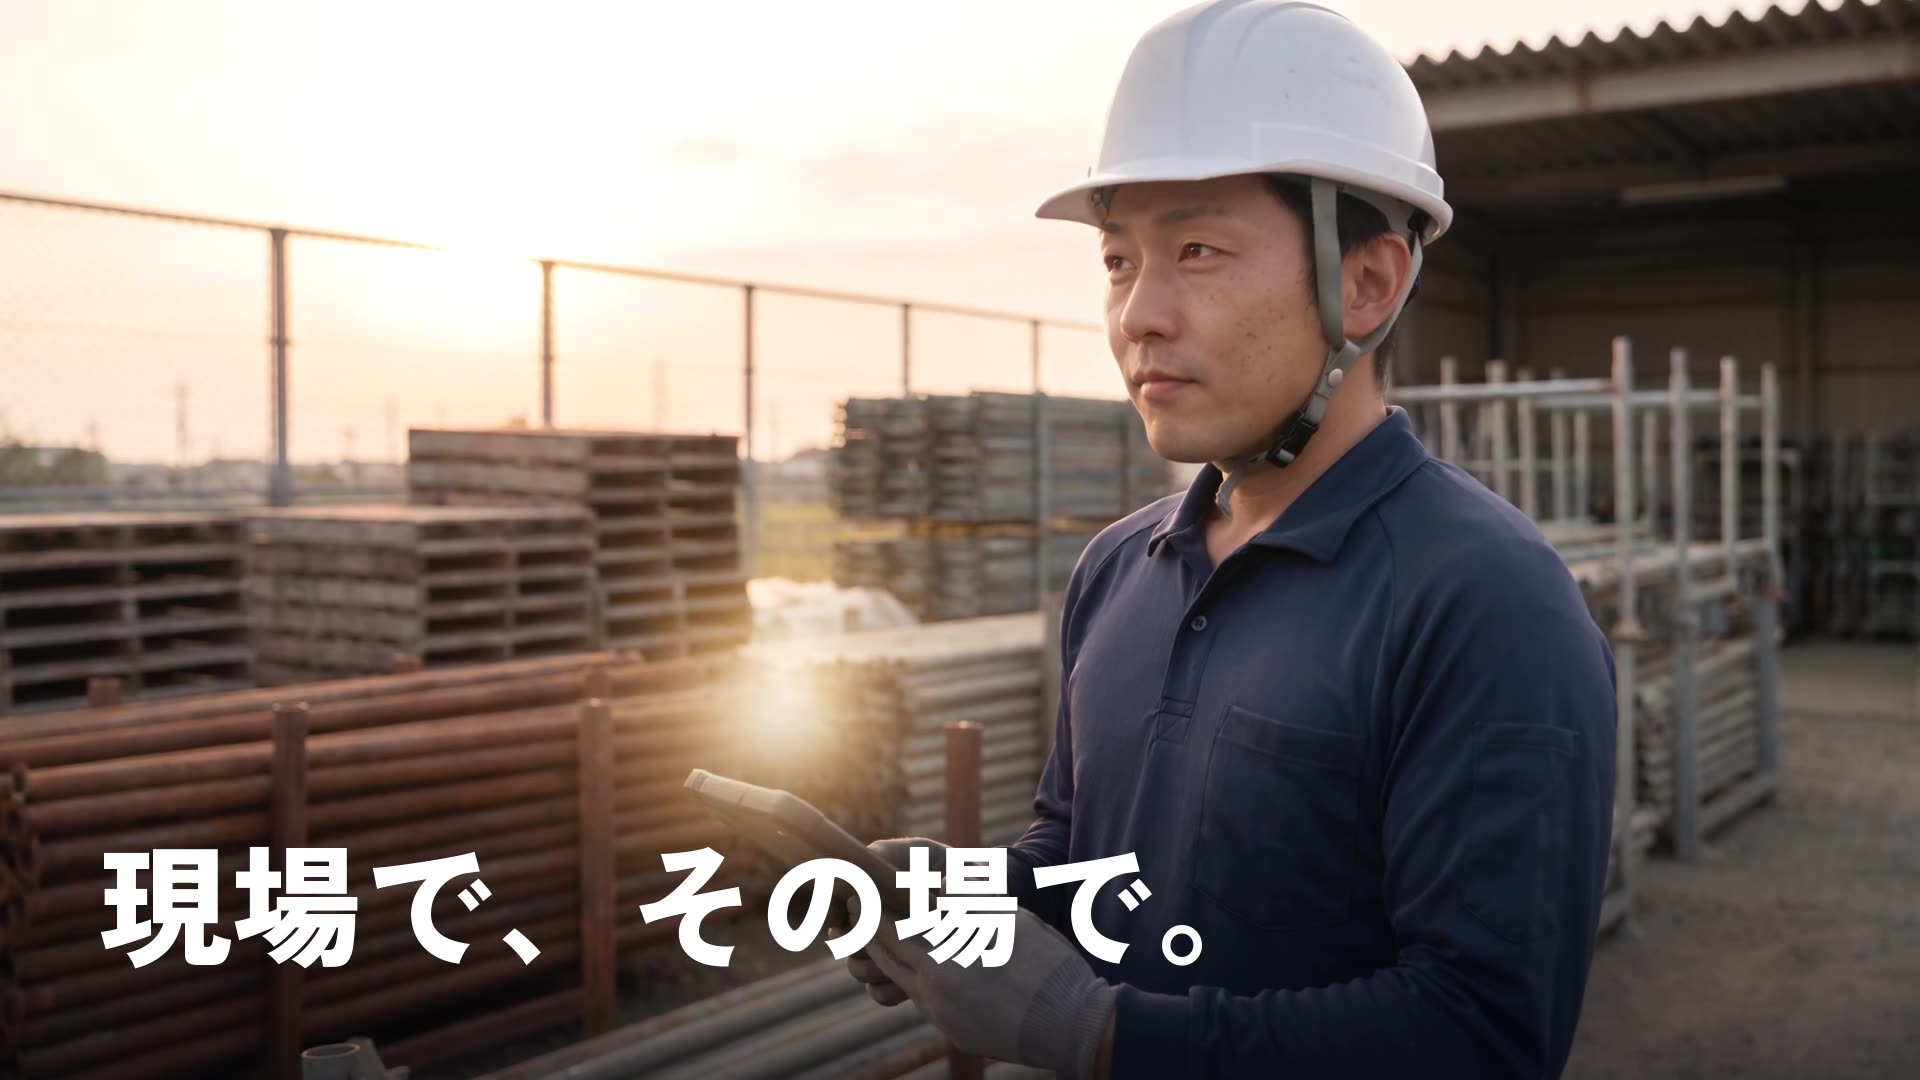
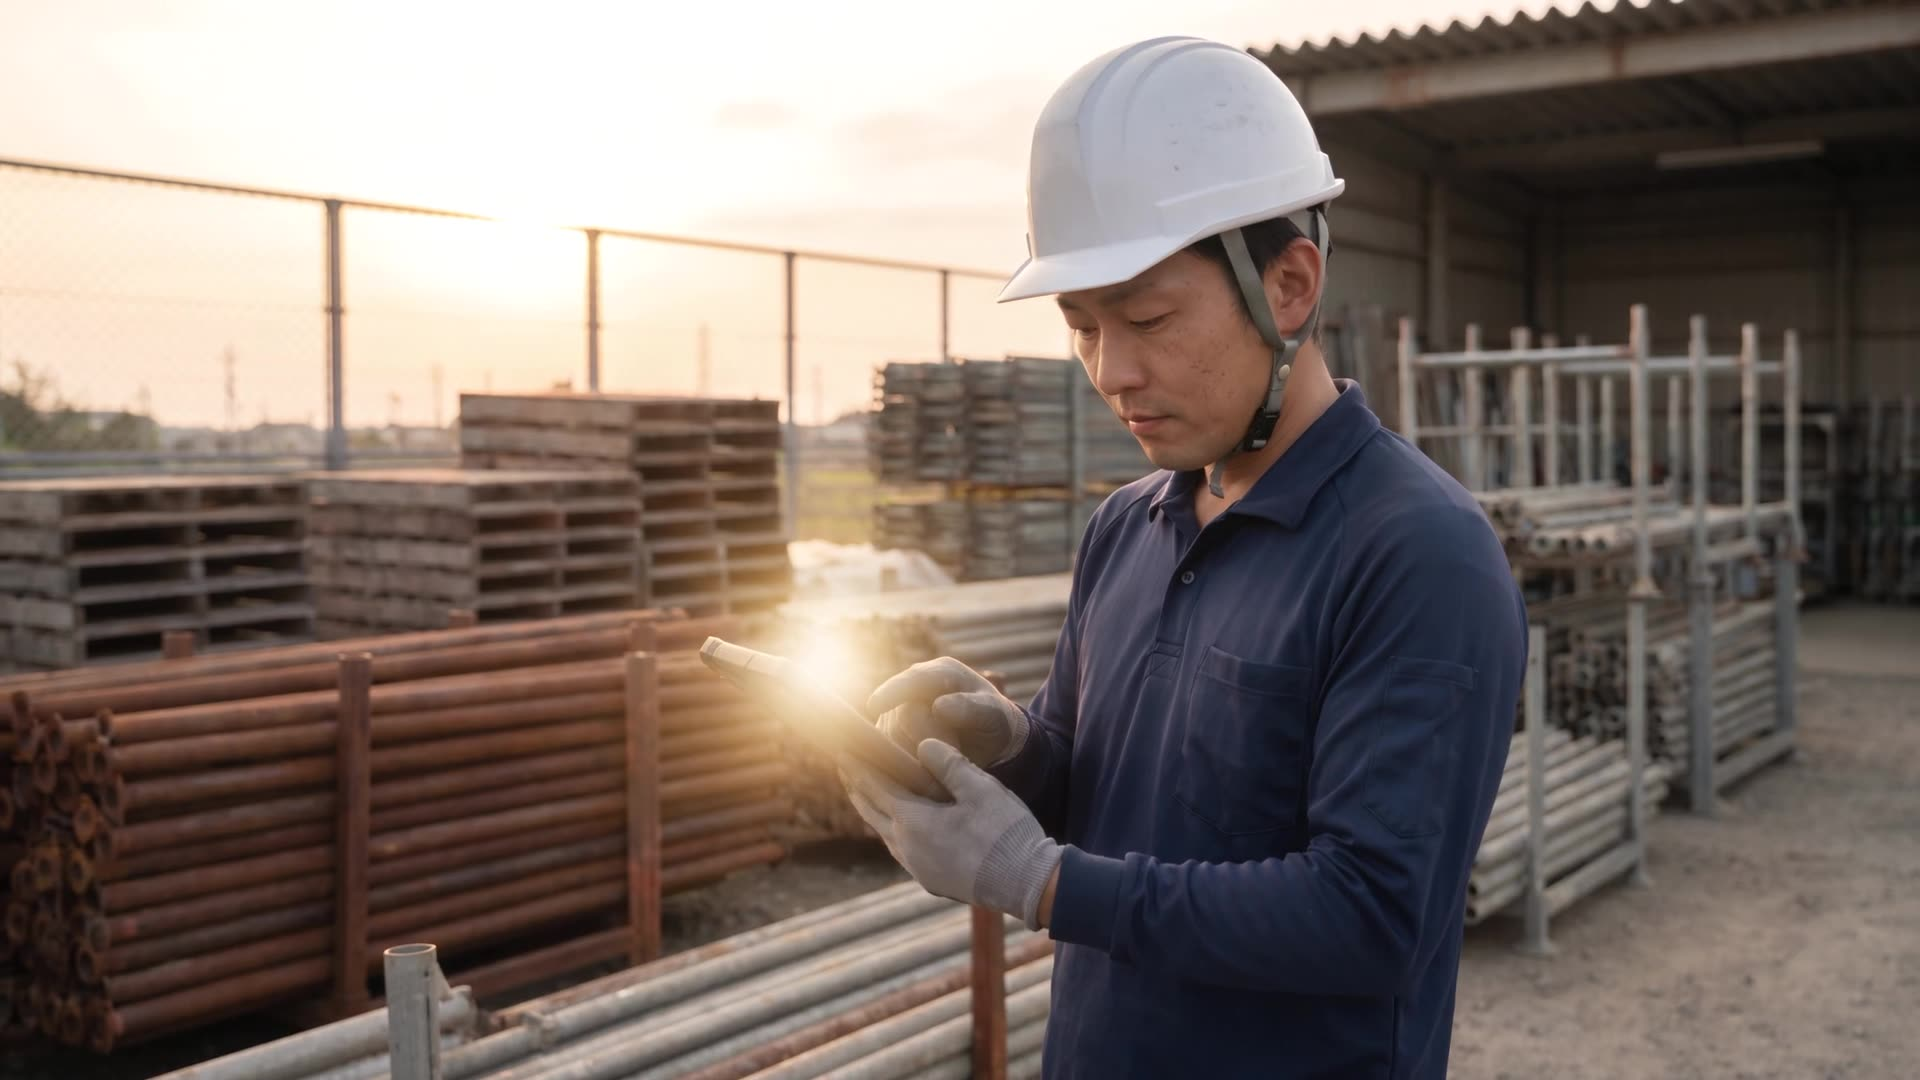
サンプル2本をサイトのジャンルカードに追加、検査も6件足した
構成案の「サイトへの載せ方」どおり index.html の 02 サービス紹介と
04 広告・CM のカードに figure.sample で入れた。

- 形は 06 展示会のカードに合わせた
- 説明文に架空の題材だと明記（e2e が両方検査する）
- ポスターはテロップの出ていないフレームにした。既存2枚もそうで、
  テロップ入りだと再生前のコントロールバーに文字が隠れる
- tests/content.mjs に6件追加。content.mjs 88件→94件、全スイートPASS

Claude-Session: https://claude.ai/code/session_01SPSW4cuRHT1T36D9RaAy9y

diff --git a/index.html b/index.html
@@ -411,6 +411,20 @@
                     <div class="genre-no">02</div>
                     <h3>サービス紹介</h3>
                     <p>商品やサービスの価値を短くまとめた映像。実物の撮影が難しいものや、まだ形になっていない構想段階のものでも映像にできます。</p>
+                    <!-- 架空の業務ソフトを題材にしたサンプル。UIそのものは生成していない
+                         （AIは画面内の文字を正しく描けない）。画面は光と角度で処理し、中身はテロップで出している -->
+                    <figure class="sample">
+                        <video class="sample-video" controls preload="none" playsinline
+                               poster="assets/works/service-15s.jpg"
+                               src="assets/works/service-15s.mp4"
+                               aria-label="サービス紹介のサンプル映像 15秒">
+                            お使いのブラウザでは再生できません。
+                        </video>
+                        <figcaption class="sample-cap">
+                            <p class="sample-title">サンプル（15秒）</p>
+                            <p class="sample-note">架空の業務ソフト「そのまま日報」を題材に制作したものです。<strong>まだ実物のないアプリを、画面を映さずに映像にしています</strong>（画面は光と角度で見せ、内容はテロップで伝えています）。現場の撮影も出演者の手配もありません。</p>
+                        </figcaption>
+                    </figure>
                 </article>
                 <article class="genre" id="genre-recruit">
                     <div class="genre-no">03</div>
@@ -421,6 +435,20 @@
                     <div class="genre-no">04</div>
                     <h3>広告・CM</h3>
                     <p>商品やキャンペーンを訴求する映像。キャストの起用もロケも不要なので、訴求違いのパターンを複数つくって出し分けることもできます。</p>
+                    <!-- 架空の冷凍餃子のサンプル。調理・食卓・家族まで全部生成で、
+                         キャストもロケもスタジオも使っていない -->
+                    <figure class="sample">
+                        <video class="sample-video" controls preload="none" playsinline
+                               poster="assets/works/cm-15s-taste.jpg"
+                               src="assets/works/cm-15s-taste.mp4"
+                               aria-label="広告・CMのサンプル映像 15秒">
+                            お使いのブラウザでは再生できません。
+                        </video>
+                        <figcaption class="sample-cap">
+                            <p class="sample-title">サンプル（15秒）</p>
+                            <p class="sample-note">架空の冷凍餃子「こがね餃子」を題材に制作したものです。調理の寄りから食卓の引きまで<strong>キャストもロケもスタジオも使わずに組んでいます</strong>。同じ素材から、順番とテロップを変えて訴求違いの2本目を出すこともできます。</p>
+                        </figcaption>
+                    </figure>
                 </article>
                 <article class="genre" id="genre-sns">
                     <div class="genre-no">05</div>

diff --git a/成果物/サンプル映像/素材一覧_サービス紹介15秒_広告CM15秒x2.md b/成果物/サンプル映像/素材一覧_サービス紹介15秒_広告CM15秒x2.md
@@ -332,3 +332,39 @@ BGMと同じく numpy で合成した。**人の声は作らない**（笑い声
   （7.0.2 / x264・x265・mp3lame・freetype 有効、**drawtext と ffprobe は無い**）
 - `loudnorm` は1パスだと精度が出ず、AAC変換でピークが 0.0dB に張り付いた。
   **2パス（`measured_*` を渡す）＋ `alimiter=limit=0.82` で −1.8dB まで収めた**
+
+---
+
+# サイトへの反映（2026-09-17）
+
+構成案の「サイトへの載せ方」どおりに `index.html` の該当ジャンルのカードへ入れた。
+
+| ジャンル | カード | 動画 | ポスター |
+|---|---|---|---|
+| 02 サービス紹介 | `#genre-service` | `service-15s.mp4` | `service-15s.jpg` |
+| 04 広告・CM | `#genre-ad` | `cm-15s-taste.mp4` | `cm-15s-taste.jpg` |
+
+- `<figure class="sample">` の形は 06 展示会のカードに合わせた
+  （`controls preload="none" playsinline` ＋ `figcaption` に `sample-title` / `sample-note`）
+- **説明文に架空の題材だと明記**した。02は「架空の業務ソフト『そのまま日報』」、
+  04は「架空の冷凍餃子『こがね餃子』」。e2e が両方を検査する
+- **ポスターはテロップの出ていないフレームにした。**既存2枚（`company-60s.jpg` /
+  `exhibition-15s.jpg`）がテロップなしの画で、テロップ入りのフレームだと
+  再生前のコントロールバーに文字が隠れる
+- 02は「まだ実物のないアプリを、画面を映さずに映像にしている」ことを書いた
+  （ジャンル説明の「構想段階のものでも映像にできます」の裏づけ）
+- 04は「調理の寄りから食卓の引きまでキャストもロケもスタジオも使わずに組んでいる」
+
+## 追加した検査（`tests/content.mjs`）
+
+6件足した。`node tests/run.mjs` で **content.mjs は 88件 → 94件、全スイートPASS**。
+
+- サービス紹介／広告CMのカードにサンプルがある（各1件）
+- それぞれ架空の題材だと書いてある（各1件）
+- 追加した2本も自前配信（YouTube埋め込みではない）
+- 追加した2本にもポスター画像がある
+
+テストは `python3 -m http.server 8899 --directory . &` を立ててから
+`node tests/run.mjs`。Playwright は `/opt/node22/lib/node_modules/playwright/index.js`。
+**CommonJS なので `import pkg from ...; const { chromium } = pkg;` で読む**
+（名前付き import は落ちる）。
